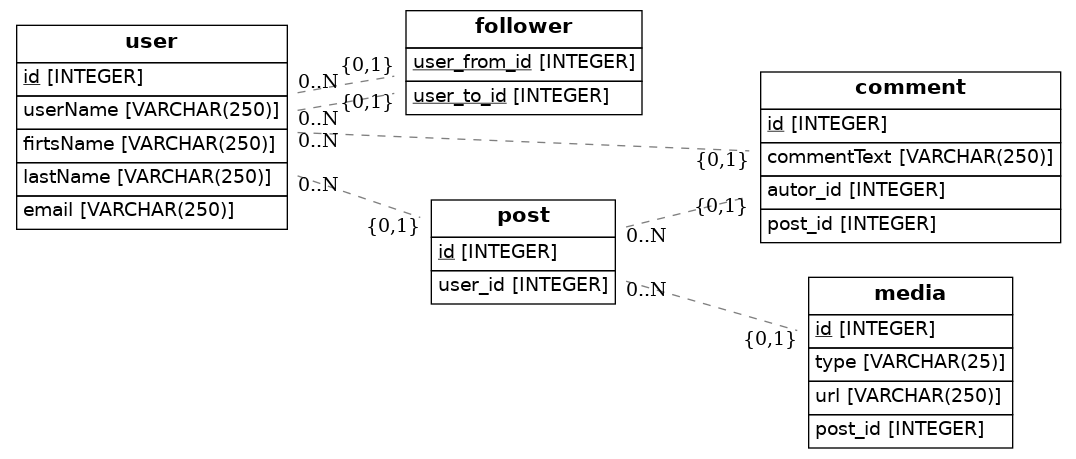
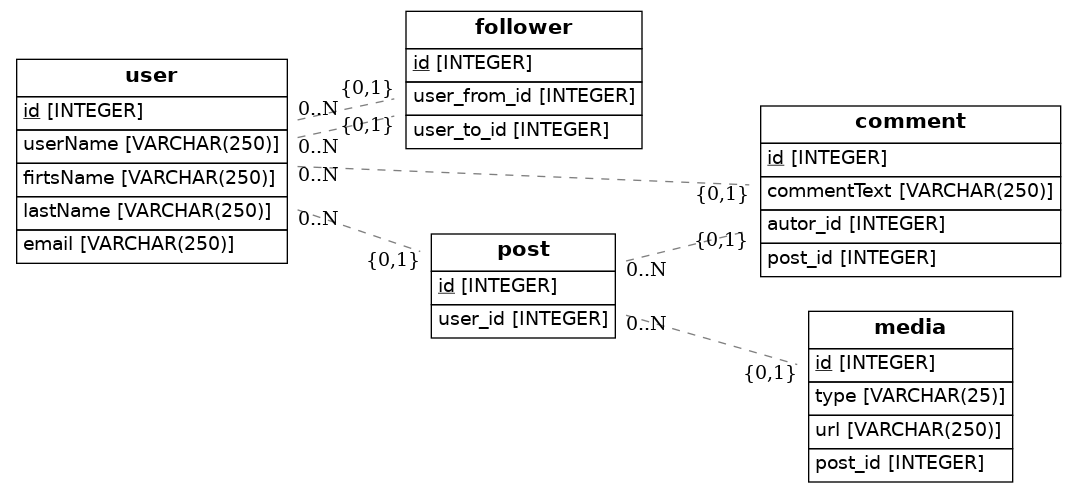
Finalizado

diff --git a/src/models.py b/src/models.py
@@ -11,6 +11,8 @@ Base = declarative_base()
 class Follower(Base):
     __tablename__ = 'follower'
     id = Column(Integer, primary_key=True)
+    user_from_id= Column(Integer, ForeignKey('user.id'), nullable=False)
+    user_to_id= Column(Integer, ForeignKey('user.id'), nullable=False)
 
 
 class User(Base):
@@ -20,17 +22,10 @@ class User(Base):
     firtsName = Column(String(250))
     lastName = Column(String(250))
     email = Column(String(250), nullable=False)
-    user_from = relationship('follower', backref='user', lazy=True)
-    user_to = relationship('follower', backref='user', lazy=True)
-    user_comment = relationship('comment', backref='user', lazy=True)
-    user_post = relationship('post', backref='user', lazy=True)
-    followers = relationship('follow_user', secondary=follow_user, lazy='subquery',
-        backref=backref('user', lazy=True))
-
-follow_user = Table('follow_user',
-    Column('follower_id', Integer, db.ForeignKey('follower.id'), primary_key=True),
-    Column('user_id', Integer, db.ForeignKey('user.id'), primary_key=True)
-)
+    user_comment = relationship('Comment', backref='user', lazy=True)
+    user_post = relationship('Post', backref='user', lazy=True)
+    follower_from = relationship('Follower', backref='user', lazy=True)
+    follower_to = relationship('Follower', backref='user', lazy=True)
 
 
 class Comment(Base):
